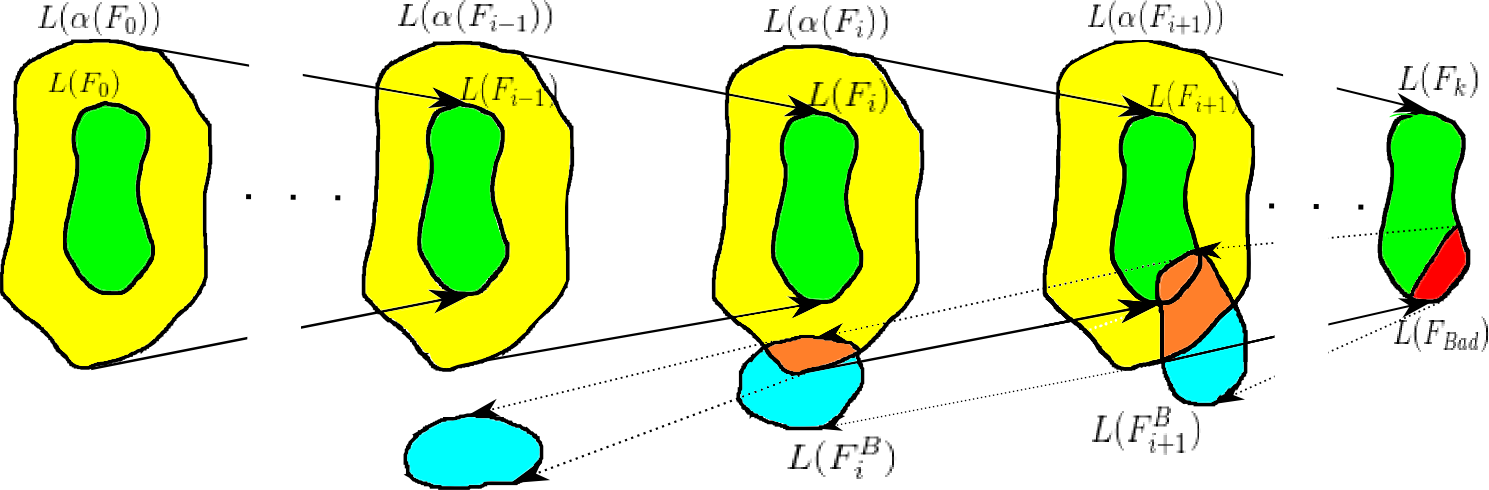
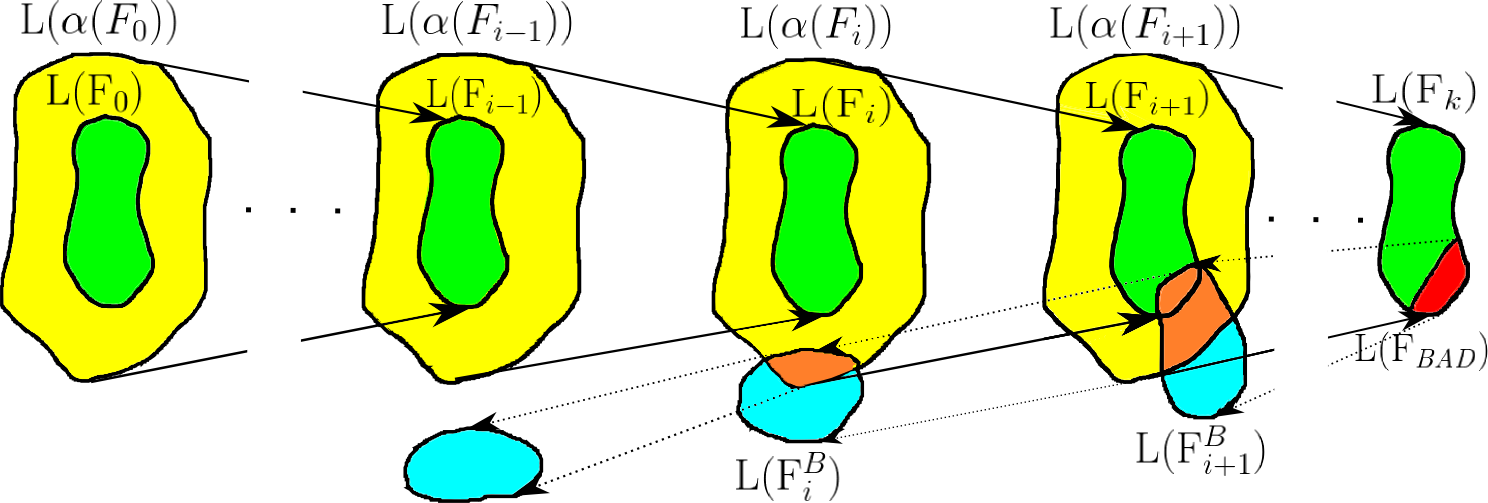
update artmc figure

diff --git a/obsah.tex b/obsah.tex
@@ -2371,7 +2371,7 @@ in the bottom-up way manner \cite{tata2007}.
 
 Each of product automata $A \times \predauti{i}$, where $1 \leq i \leq n$, has the state set
 containing the product states of the form $(p,q) \in Q_A \times Q_{\predauti{i}}$.
-To eaiser the construction of $\peqrel$, we introduce the auxiliary function $m$ that labels
+To easier the construction of $\peqrel$, we introduce the auxiliary function $m$ that labels
 each state of $A$ by the states of predicate tree automata.
 Formally, the function $m: Q_A \rightarrow 2^{Q_{\predauti{1}} \cup \ldots
 \cup Q_{\predauti{m}}}$ is defined as follows: $m(p) = \{q \in Q_{\predauti{1}} \cup \ldots \cup Q_{\predauti{m}}\,|\,
@@ -2571,7 +2571,7 @@ then Forester implementation of tree automata, we tried to verify these results
 by compiling Forester and VATA without optimization and running the tests again.
 We found that with the optimization turned off,
 Forester with VATA is more efficient.
-The are two possible explainations of the the worse performance of Forester with VATA
+The are two possible explanations of the the worse performance of Forester with VATA
 in the case when optimizations of compiler are used.
 The first one is that the original implementation of tree automata
 in Forester uses simulation to reduce the size of tree automata
@@ -2581,7 +2581,7 @@ However, this does not explain why the original implementation is more efficient
 only when the advanced compiler optimization are used.
 The second possible explanation of the slowdown is
 that VATA is linked to Forester as a static library so the compiler cannot
-perform the advanced optimization between Forester and VATA, as oposed to
+perform the advanced optimization between Forester and VATA, as opposed to
 Forester using its own tree automata module.
 
 
@@ -2670,7 +2670,7 @@ where FA with many states are generated.
 \end{table}
 
 Although Forester using VATA is slower in some cases,
-the slowdown is not as significant to preveil
+the slowdown is not as significant to prevail
 the advantages of the better modularity
 and maintainability coming from having the separate library
 for tree automata, especially with regarded to the further development.
@@ -2764,7 +2764,7 @@ only to the programs that use the supported C language constructions.
 	\caption{Evaluation of predicate abstraction
 	in the SV-COMP benchmark and the~Forester test suite.
 	Table shows the number of the programs which correctness Forester was not
-	verfied before and the number of the newly found errors
+	verified before and the number of the newly found errors
 	that Forester was not able to detect or confirm before.
 	}
 	\centering
@@ -2966,7 +2966,7 @@ Resolving these issues is one of the future goals.
 Predicate abstraction is not also yet fine tuned and
 the further improvements would bring the better performance.
 There is also needed a~modification that would allow Forester to continue also
-when a garbage is created but a different property is verfied.
+when a garbage is created but a different property is verified.
 The other future directions involve also conceptual and
 theoretical extensions of backward run, including intersection of
 FA intersection, and predicate analysis such as a generalization

diff --git a/macros.tex b/macros.tex
@@ -22,7 +22,7 @@
 \newcommand{\rootit}[0]{\mathit{ROOT}}
 \newcommand{\displ}[0]{\mathit{DISPL}}
 \newcommand{\femp}[0]{F_\mathit{Empty}}
-\newcommand{\fbad}[0]{F_\mathit{Bad}}
+\newcommand{\fbad}[0]{F_\mathit{BAD}}
 
 \newcommand{\lstate}[0]{\mathit{lhs.state}}
 \newcommand{\rstate}[0]{\mathit{rhs.state}}
